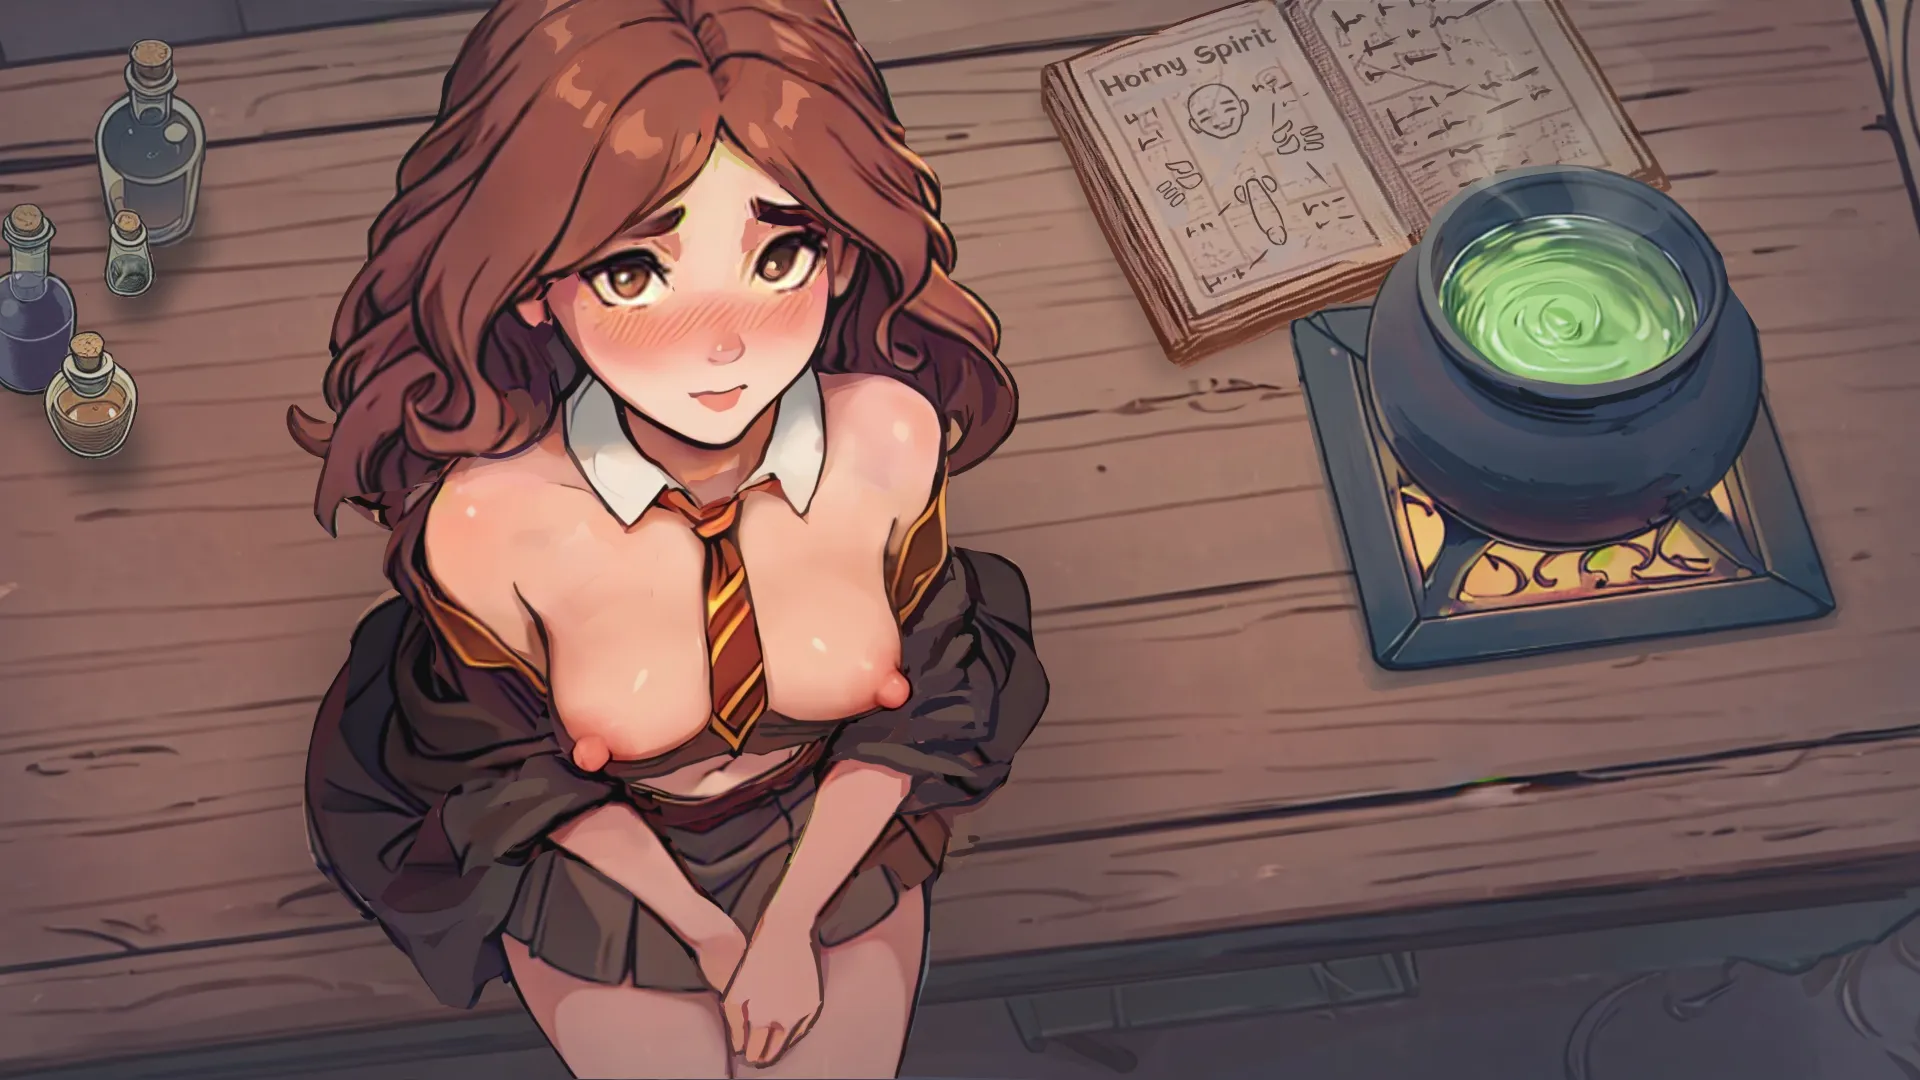
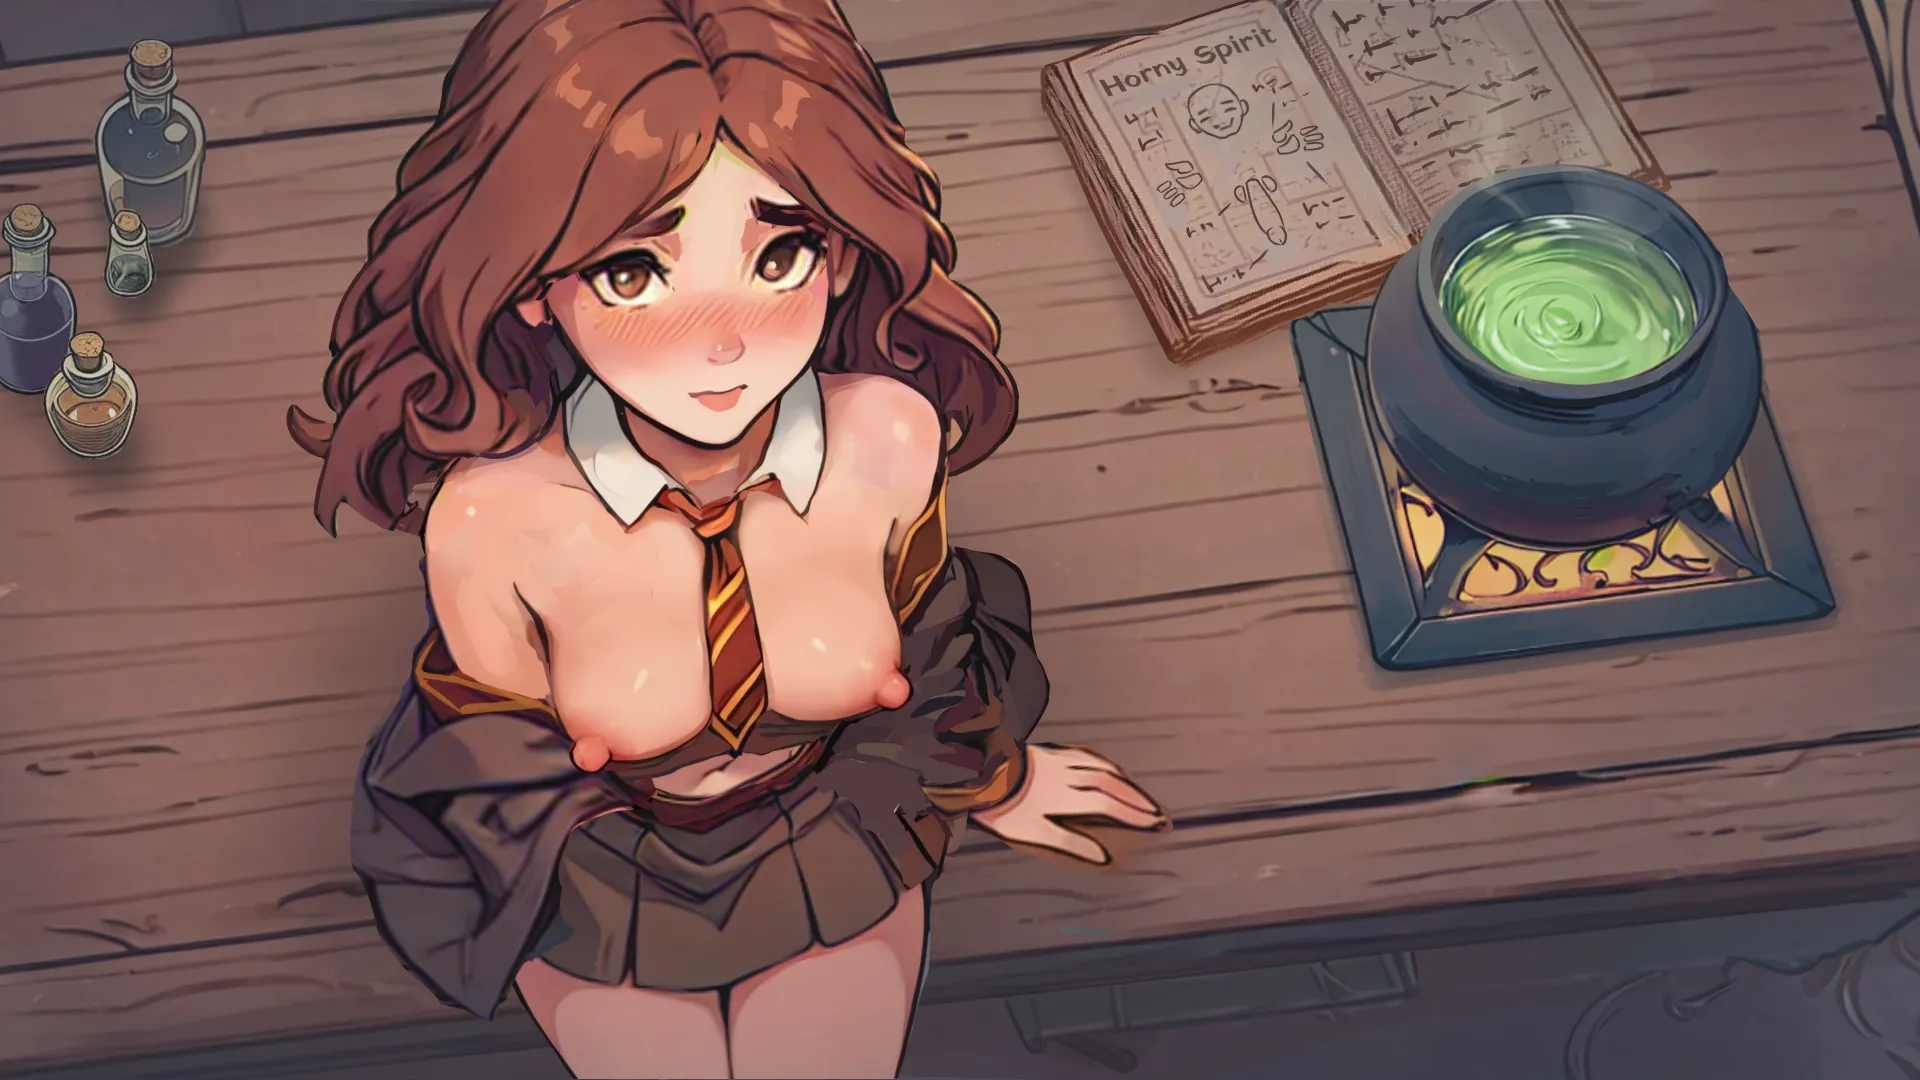
finish raw h1 story

Changed region(s): [[0.1562, 0.4583, 0.625, 1.0]]

diff --git a/boot/start.ts b/boot/start.ts
@@ -57,7 +57,7 @@ async function start() {
         EVENTS.emit("startScene", { name: "n1-start" })
     }
 
-    EVENTS.emit("startScene", { name: "h1-room" })
+    EVENTS.emit("startScene", { name: "h1-start" })
 
     // delay to make transition work and no world shortly shown
     TIME.after_iterations(10, () => (CONTEXT.echo.loading = false))

diff --git a/assets/scenes/h1-table.md b/assets/scenes/h1-table.md
@@ -7,65 +7,292 @@ I mean... Welcome to Hogwarts. I'm professor Granger.
 Yes, I know, I'm just...
 We actually gonna do it, right?
 > I think so, yeah.
-# h1-table-clothes, h1-table-eyes-closed
+# h1-table-clothes, h1-eyes-closed
 Alright, alright. I need to calm dawn. I was the best in my class!
-# h1-table-clothes, h1-table-eyes-serious, h1-table-mouth-speaking
+# h1-table-clothes, h1-eyes-serious, h1-mouth-speaking
 For the ancestors' honor! I'll do it.
-# h1-table-clothes, h1-table-eyes-serious
+# h1-table-clothes, h1-eyes-serious
 Um...
 But... How should I start?
 > I thought you've read all the books about serving a spirit.
-# h1-table-clothes, h1-table-eyes-closed, h1-table-mouth-speaking
-I did! First, it called an extraction of the essence, not serving.
-# h1-table-clothes, h1-table-mouth-speaking
+# h1-table-clothes, h1-eyes-closed, h1-mouth-speaking
+I did! First, it is not serving. It called an extraction of the spirit's essence.
+# h1-table-clothes, h1-mouth-speaking
 Second, it is not many of the books on that topic, to be fair.
 # h1-table-clothes
 I dont know like... I'm not like this usually.
 > Want a hint?
 Please.
 > You should be more comfortable without a top.
-# h1-table-clothes, h1-table-mouth-wide
-...
+# h1-table-clothes, h1-mouth-wide
+
 # h1-table-clothes
 Are you sure? I don't know...
-I'm not like a person who would showing breasts just because someone asks...
+I'm not a person who would show breasts just because someone asks...
 I'm not like that, you know.
 > Well, you need the essence, and seeing your brests would defenetly help me to get in the mood.
 Well, you kind of have a point.
-And getting this potion is incredibly important for me!
-It's not like someone just randomly asking.
+And it's not like someone just randomly asking.
+Getting this potion is incredibly important for me!
 Ok, ok. For the ancestors's honor, for the Gryffindor!
-# h1-table-clothes, h1-table-eyes-closed
+# h1-table-clothes, h1-eyes-closed
 
-# h1-table, h1-table-eyes-closed
+# h1-table-hands-down, h1-eyes-closed
 
 > Wow! They are amazing! You nipples are so cute!
-# h1-table, h1-table-eyes-closed-serious
+# h1-table-hands-down, h1-eyes-closed-serious
 Thanks.
-# h1-table, h1-table-eyes-serious
-...
+# h1-table-hands-down, h1-eyes-serious
+
 > Are you ok, professor?
-# h1-table, h1-table-eyes-serious
+# h1-table-hands-down, h1-eyes-serious
 I'm fine. I just...
-I cant hold anymore.
-# h1-table, h1-table-eyes-serious, h1-table-mouth-laughing
-Ha-ha-ha-ha!!!
+
+I cant hold anymore...
+# h1-table-hands-down, h1-eyes-serious, h1-mouth-laughing
+Aha-ha-ha-ha!!!
 Have you really thought I'm that shy? Aha-ha-ha!
 I've read all the books, remember?
-# h1-table, h1-table-eyes-closed-serious, h1-table-mouth-laughing
+# h1-table-hands-down, h1-eyes-closed-serious, h1-mouth-laughing
 It says that you need to be shy at first. So that was all on purpose.
 So the first step of being a shy witch is completed.
-# h1-table, h1-table-mouth-laughing
+# h1-table-hands-down, h1-mouth-laughing
 Did you like how unconfinent I was?
 > Damn, witch. You're crazy. But actually, you know, yes. It was kind of hot.
-# h1-table, h1-table-mouth-smiling
+# h1-table-hands-down, h1-mouth-smiling
 So it worked as intended.
-Now, the second step. Bring your penis closer.
+Now, the second step, spirit. Bring your etherial penis closer.
 > No need to ask twice!
-# h1-table, h1-table-eyes-together, h1-table-mouth-speaking, h1-table-penis-soft
+
+# h1-table-hands-down, h1-eyes-together, h1-mouth-speaking, h1-penis-no-hand
 
 Oh, my..
 It's huge.
 > Wanna touch it?
-# h1-table, h1-table-mouth-speaking, h1-table-penis-soft
+# h1-table-hands-down, h1-penis-no-hand
 Um... Yes.
+> Well, go ahead.
+# h1-table-hands-down, h1-eyes-together, h1-penis-no-hand
+
+# h1-table, h1-penis-soft, h1-eyes-together
+
+Ow... it...
+Feels soft.
+I should rub it right? Let me see.
+# h1-table, h1-penis-soft
+Slowly like that. Is it ok?
+> Oh yeah its working...
+What do you mean?
+# h1-table, h1-penis, h1-mouth-wide, h1-table-eyes-together
+
+Oh my god...
+...
+> Are you ok, witch?
+# h1-table, h1-penis, h1-mouth-speaking, h1-eyes-together
+Yeah, I'm fine.
+I'm sorry I just...
+# h1-table, h1-penis, h1-mouth-smiling, h1-eyes-together
+It is really huge, you know.
+> Don't stop moving your hand.
+# h1-table, h1-penis, h1-mouth-smiling
+Sorry. I'll continue gently stroking it.
+# h1-table, h1-penis, h1-mouth-smiling, h1-eyes-together
+It's kind of nice. 
+I wouldn't think I'm gonna enjoy it, but I think I am.
+> Glad to hear that.
+# h1-table, h1-penis, h1-mouth-smiling
+So according to the books, I need to say specific things.
+> You can stop mentioning the books. Just do it naturally.
+# h1-table, h1-penis, h1-mouth-smiling, h1-eyes-serious
+Right. So.
+# h1-table, h1-penis, h1-mouth-speaking, h1-eyes-serious
+I'm a slut.
+# h1-table, h1-penis, h1-mouth-smiling, h1-eyes-serious
+How was that?
+> Very nice, girl. Very nice.
+Thats not it, here's more.
+# h1-table, h1-penis, h1-mouth-speaking, h1-eyes-serious
+I love jerking penises...
+Khm-khm, I mean... cocks.
+Yeah, I love jerking cocks.
+# h1-table, h1-penis, h1-mouth-smiling, h1-eyes-serious
+How was that?
+> Not bad. Want a hint?
+# h1-table, h1-penis, h1-mouth-smiling
+You are teaching me!
+It reminds of a professor Dumbledor. He was tutoring me for a while.
+# h1-table, h1-penis, h1-mouth-smiling, h1-eyes-serious
+Sure, give me a hint.
+> Don't be so generic. Incorporate your real personality.
+# h1-table, h1-penis, h1-mouth-smiling
+My real personality? Ok, ok, let me think...
+# h1-table, h1-penis, h1-mouth-speaking, h1-eyes-closed-serious
+I'm doing it for the Hogwarts. I can not let my students down.
+And most importantly, all the ancestors who worked here.
+And for that...
+# h1-table, h1-penis, h1-mouth-wide, h1-eyes-serious
+I'm ready to be the best wankmaiden in Hogwarts!
+> Who?
+# h1-table, h1-penis, h1-mouth-speaking, h1-eyes-serious
+A wankmaiden. A girl who give handjobs.
+There is a lot of them in the school nowadays.
+# h1-table, h1-penis, h1-mouth-wide, h1-eyes-closed-serious
+Nobody can compite with me though.
+I'll do anything for the Gryffindor.
+And if it require jerking off spirit's cock, I'll do it.
+# h1-table, h1-penis, h1-mouth-smiling, h1-eyes-together
+Not that I dislike it anyway...
+# h1-table, h1-penis, h1-mouth-smiling
+So here is the true.
+> Nice. Now be a good wankmaiden and increase the speed of your serving.
+# h1-table, h1-penis, h1-mouth-speaking, h1-eyes-closed
+It's not a serving, it's an essence extrac...
+# h1-table, h1-penis, h1-mouth-smiling
+Sorry. Wankmaiden is going to serve the spirit.
+# h1-table, h1-penis-jerk, h1-mouth-smiling, h1-eyes-together
+
+> Uff... yes. That's it, witch.
+# h1-table, h1-penis-jerk, h1-mouth-smiling
+Do you need something else?
+> Tell me who you are.
+# h1-table, h1-penis-jerk, h1-mouth-speaking
+I'm professor Granger.
+# h1-table, h1-penis-jerk, h1-mouth-smiling, h1-eyes-serious
+Oh, wait, I get it.
+# h1-table, h1-penis-jerk, h1-mouth-laughing, h1-eyes-serious
+I'm a wankmaiden who servers the spirit.
+And also I'm a slut, and ...
+...a whore.
+> Ooo... now we talking. Good girl.
+I know I am.
+> I mean it, you are doing great.
+# h1-table, h1-penis-jerk, h1-mouth-laughing
+Really? Thanks.
+> Allright, enough for now, slow down. I got and idea.
+# h1-table, h1-penis, h1-mouth-smiling
+
+> Open your mouth wide.
+# h1-table, h1-penis, h1-mouth-smiling, h1-eyes-serious
+I told you its not gonna fit.
+> I know. Just do it.
+# h1-table, h1-penis, h1-mouth-wide, h1-eyes-serious
+A-a-a...
+'ike 'is?
+> Yes, like this. Now, stick your tongue out.
+# h1-table, h1-penis, h1-mouth-speaking
+I don't ...
+# h1-table, h1-penis, h1-mouth-speaking, h1-eyes-closed
+Ok.
+# h1-table, h1-penis, h1-mouth-wide, h1-eyes-closed
+
+# h1-table, h1-penis, h1-mouth-tongue
+
+...
+I fee 'awkwa
+> What? I don't get it.
+# h1-table, h1-penis, h1-mouth-speaking, h1-eyes-serious
+I said I feel ackward.
+> Ok ok, stick it out.
+# h1-table, h1-penis, h1-mouth-tongue, h1-eyes-serious
+
+> It's so hot.
+# h1-table, h1-penis, h1-mouth-tongue
+rea'y?
+> Yes, really.
+'kay
+
+...
+
+'ow 'ong shou' I kee' i' ou'?
+> Didn't get a word.
+# h1-table, h1-penis, h1-mouth-tongue, h1-eyes-serious
+'ow 'ong?
+> How long?
+'eah
+> Well, I'm waiting for something special.
+# h1-table, h1-penis, h1-mouth-tongue
+'onna 'um al'eady?
+> Not yet, silly.
+'kay
+> Just keep it out for a bit.
+ah'igh
+
+...
+# h1-table, h1-penis, h1-mouth-tongue, h1-eyes-closed
+
+# h1-table, h1-penis, h1-mouth-tongue
+I 'an 'ot hol' ma sa'iva...
+> That's what I was waiting for. Don't hold back.
+
+# h1-table, h1-penis, h1-mouth-saliva
+
+...
+# h1-table, h1-penis, h1-mouth-saliva, h1-eyes-serious
+I fee 'tupid
+> You are the smartest witch I have ever seen.
+# h1-table, h1-penis, h1-mouth-saliva, h1-eyes-closed
+ye' I a'
+> Yes, you are. Now, serve me as a good wankmaiden.
+# h1-table, h1-penis, h1-mouth-saliva, h1-eyes-together
+
+# h1-table, h1-mouth-saliva, h1-penis-jerk, h1-eyes-together
+
+> Oh yes...
+'o you like 't?
+> Don't ask silly questions, of course I like it.
+righ'
+by 'e way, I' a 'e bes' w'nkmaiden in Hogwar's.
+> Shit. I think I'm close. Do I need to cum in the cauldron?
+# h1-table, h1-mouth-saliva, h1-penis-jerk, h1-eyes-closed
+no you c'n cum in m'...
+# h1-table, h1-mouth-saliva, h1-penis-jerk
+in m' mou'
+> What!?
+# h1-table, h1-mouth-speaking, h1-penis-jerk
+I said you can cum in my mouth.
+If it's ok.
+> OF COURSE IT'S OK!! OPEN IT I'M GONNA CUM!!
+# h1-table, h1-mouth-tongue, h1-penis-jerk
+
+> OH FUUUUCK....
+# h1-table, h1-mouth-saliva, h1-penis-mouth-jerk, h1-eyes-together
+
+# h1-table-balls, h1-mouth-saliva, h1-penis-cum-1, h1-eyes-surprised
+
+Mmmph...
+> There is more!
+
+# h1-table-balls, h1-mouth-saliva, h1-penis-cum-2, h1-eyes-ahegao
+
+Ummmph...
+# h1-table-hands-down, h1-mouth-saliva, h1-penis-cum-2-no-jerk, h1-eyes-ahegao
+
+# h1-table-hands-down, h1-mouth-tongue, h1-penis-post-cum-1, h1-eyes-ahegao
+
+> Ooohhh that was great...
+...
+> Hermione? Are you ok?
+# h1-table-hands-down, h1-penis-post-cum-2, h1-eyes-ahegao
+
+# h1-table-hands-down, h1-penis-post-cum-3, h1-eyes-ahegao
+
+# h1-table-hands-down, h1-penis-post-cum-4, h1-eyes-ahegao
+A-a-a...
+> Wow.. what a wankmaiden.
+# h1-table-hands-down, h1-penis-post-cum-5, h1-eyes-ahegao
+Ehee...
+> Did you carried away and forgot about the potion?
+# h1-table-hands-down, h1-penis-post-cum-5, h1-eyes-closed
+Heehee...
+# h1-table-hands-down, h1-penis-post-cum-5, h1-eyes-blue
+
+Do you really think I could screw up with that?
+I've already drink the potion before summoning you.
+Essence is supposed to be fresh - right from the source, so effect has to be finalized internally.
+So thank you.
+> No, thank you, professor.
+# h1-table-hands-down, h1-penis-post-cum-5-transparent, h1-eyes-blue
+Oh I think you going back. It was nice to meet you.
+> Yep, bye, little one.
+
+Bye, Mr. Spirit.

diff --git a/assets/scenes/h1-room.md b/assets/scenes/h1-room.md
@@ -8,7 +8,7 @@ Almost there, hold a bit tighter!
 Well, hi.
 > ...
 Spirit?
-> Gulp. Yes, yes. Um... hi.
+> Yes, yes. Um... hi.
 Are you ok? Not get used to this reality yet?
 > No, the opposite. You look very familiar, you know.
 # h1-room, h1-hermione-surprised
@@ -86,10 +86,9 @@ I'm gonna use my hands. If it's ok with you.
 > Just hands?
 # h1-room-hands-back, h1-hermione-surprised
 What are you hinting at? I just need an essence.
-I'm not that kind of a girl who would jump an a random ... um.. sausage.
+I'm not that kind of a girl who would jump on each ... um.. sausage.
 > Sausage?
-You know what I mean!
-Besides, you are innormasly huge, so... Even if I would...
+You know what I mean! Besides, you are innormasly huge, so... Even if I want to...
 # h1-room-hands-back, h1-hermione-closed-eyes-speaking
 It would be just physically impossible.
 # h1-room-hands-back, h1-hermione-surprised

diff --git a/assets/scenes/h1-start.md b/assets/scenes/h1-start.md
@@ -22,7 +22,7 @@ Hmm... I don't know. I guess no.
 Ok, let me see recommendations in the book.  Here on this page... Khm-khm...
 I'm gonna be a good girl for my daddy.
 How was it?
-> Um.. wierd.
+> Um.. Given that its coming from a hand sticking of a tree it was wierd.
 Please, Mr. Spirit! Give me your hand!
 >> Sure, here. (h1-room)
 > Heh.. I have an idea.
@@ -32,9 +32,11 @@ I can feel, wait...
 Yeah, defenetly some energy is flowing. But something is wrong, the summoning is not working.
 Did you put your hand on mine?
 > Not exactly.
-Please, please, please! I... Let me see this page...
-Oh wow, its... Khm-khm...
+Please, please, please! I... Ok, give me a second...
+Let me see this page...
+Ok, found it! Wow, its so explicit... Khm-khm...
 I'm a slut. I live for craving your... your balls.
+...
 Spirit?
 > Damn, convincing. Fine.
 # h1-forest
